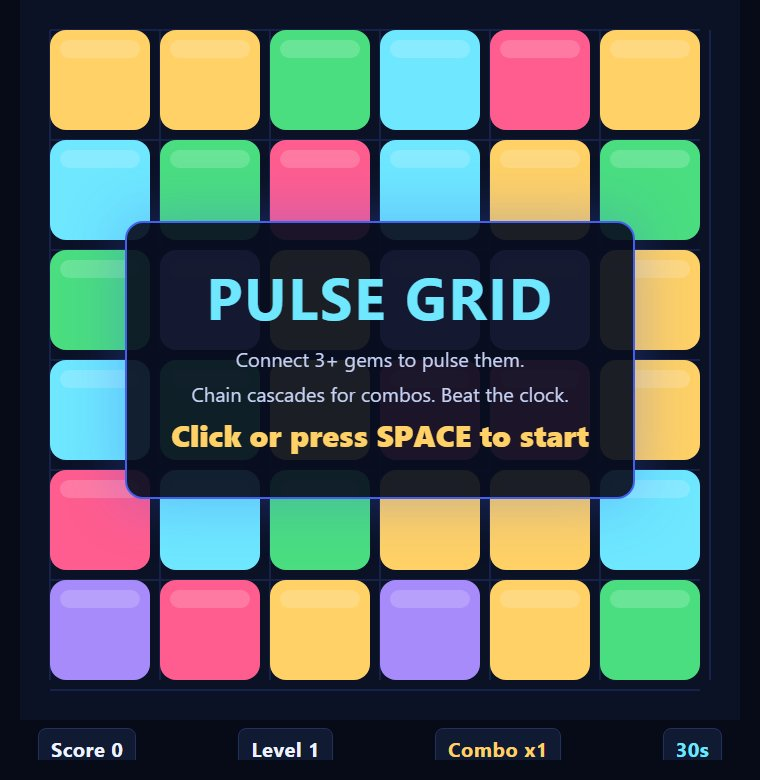
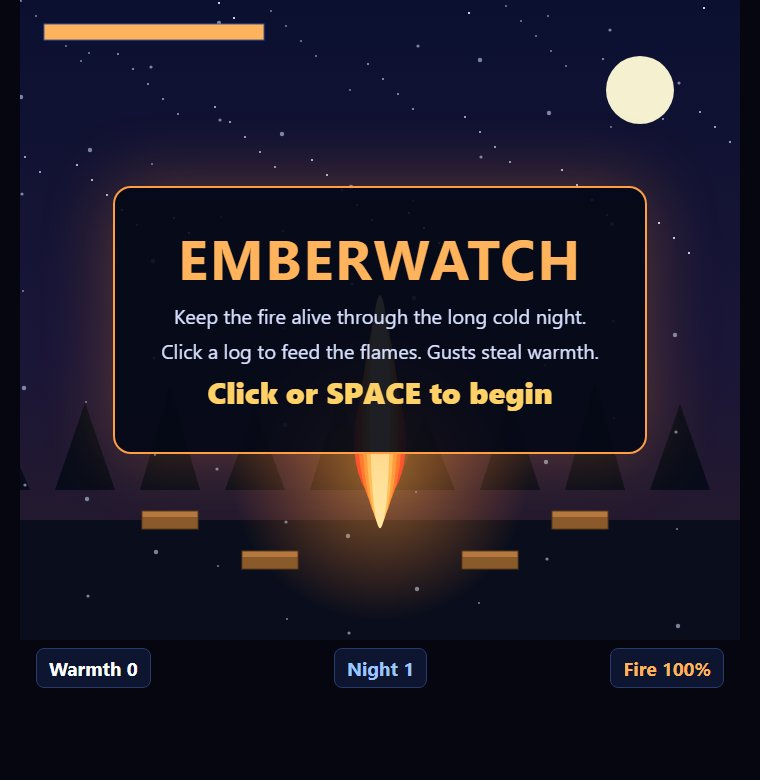
Emberwatch: original campfire night-watch arcade

diff --git a/game/src/main.js b/game/src/main.js
@@ -1,58 +1,27 @@
-// Pulse Grid entry point: input, loop, and screenshot staging.
-import { createState, pulse, tick, endGame } from './board.js';
-import { draw, SCREEN_TITLE, SCREEN_PLAY, SCREEN_OVER } from './render.js';
-import { cascadeSound, failSound } from './audio.js';
+// Emberwatch entry point: input, animation loop, particles, and screenshot staging.
+import { W,H } from './config.js';
+import { createState, feed, tick } from './world.js';
+import { draw } from './render.js';
 import { stageShot } from './shots.js';
-import { GRID, CELL, GAP, OFFSET } from './config.js';
-
-const canvas = document.getElementById('board');
-const ctx = canvas.getContext('2d');
-const overlay = document.getElementById('overlay');
-const hud = { score: document.getElementById('score'), level: document.getElementById('level'), combo: document.getElementById('combo'), time: document.getElementById('time') };
-
-let state = createState(1);
-let screen = SCREEN_TITLE;
-let last = performance.now();
-
-const params = new URLSearchParams(location.search);
-const shot = params.get('shot');
-if (shot) {
-  const staged = stageShot(shot);
-  state = staged.state; screen = staged.screen;
-  draw(ctx, state, screen);
-  updateHud();
-}
-
-function updateHud() {
-  hud.score.textContent = 'Score ' + state.score;
-  hud.level.textContent = 'Level ' + state.level;
-  hud.combo.textContent = 'Combo x' + state.combo;
-  hud.time.textContent = Math.max(0, Math.ceil(state.timeLeft)) + 's';
-  if (screen === SCREEN_TITLE) overlay.innerHTML = '<div class="card"><h1>PULSE GRID</h1><p>Connect 3+ gems to pulse them.</p><p>Chain cascades for combos. Beat the clock.</p><p class="big">Click or press SPACE to start</p></div>';
-  else if (screen === SCREEN_OVER) overlay.innerHTML = '<div class="card"><h1>TIME UP</h1><p class="big">Score ' + state.score + '</p><p>Level ' + state.level + '</p><p>Press R to restart</p></div>';
-  else overlay.innerHTML = '';
-}
-
-function start() { state = createState(Date.now() & 0xffffffff); screen = SCREEN_PLAY; updateHud(); }
-function restart() { start(); }
-
-canvas.addEventListener('click', (e) => {
-  if (screen !== SCREEN_PLAY) { start(); return; }
-  const rect = canvas.getBoundingClientRect();
-  const x = (e.clientX - rect.left) - OFFSET, y = (e.clientY - rect.top) - OFFSET;
-  const c = Math.floor(x / (CELL + GAP)), r = Math.floor(y / (CELL + GAP));
-  if (r >= 0 && r < GRID && c >= 0 && c < GRID) { const res = pulse(state, r, c); if (res.cleared) cascadeSound(state.combo); else failSound(); }
-});
-window.addEventListener('keydown', (e) => {
-  if (e.key === ' ' && screen !== SCREEN_PLAY) start();
-  if (e.key.toLowerCase() === 'r') restart();
-});
-
-function loop(now) {
-  const dt = Math.min(0.05, (now - last) / 1000); last = now;
-  if (screen === SCREEN_PLAY) { tick(state, dt); if (state.level > 1 && state.timeLeft > 29.4) { /* level up pulse */ cascadeSound(3); } }
-  draw(ctx, state, screen); updateHud();
-  requestAnimationFrame(loop);
-}
-if (!shot) requestAnimationFrame(loop);
-updateHud();
+const cv=document.getElementById('stage'),c=cv.getContext('2d');
+const ov=document.getElementById('overlay');
+const ui={score:document.getElementById('score'),night:document.getElementById('night'),heat:document.getElementById('heat')};
+let state=createState(1),screen='title',last=performance.now(),time=0;
+const snow=Array.from({length:60},(_,i)=>({x:(i*131)%W,y:(i*67)%H,r:1+(i%3)*.6,sp:20+(i%5)*8}));
+let embers=[];
+const q=new URLSearchParams(location.search),shot=q.get('shot');
+if(shot){const s=stageShot(shot);state=s.state;screen=s.screen;draw(c,state,snow,embers,0);hud();}
+function hud(){ui.score.textContent='Warmth '+state.warmth;ui.night.textContent='Night '+state.night;ui.heat.textContent='Fire '+Math.round(state.heat)+'%';
+ if(screen==='title')ov.innerHTML='<div class="card"><h1>EMBERWATCH</h1><p>Keep the fire alive through the long cold night.</p><p>Click a log to feed the flames. Gusts steal warmth.</p><p class="big">Click or SPACE to begin</p></div>';
+ else if(screen==='over')ov.innerHTML='<div class="card"><h1>THE FIRE WENT OUT</h1><p class="big">Warmth '+state.warmth+'</p><p>Night '+state.night+'</p><p>Press R to try again</p></div>';
+ else ov.innerHTML='';}
+function start(){state=createState(Date.now()&0xffffffff);screen='play';embers=[];hud();}
+cv.addEventListener('click',e=>{if(screen!=='play'){start();return;}const r=cv.getBoundingClientRect();const x=e.clientX-r.left,y=e.clientY-r.top;
+ for(let i=0;i<state.logs.length;i++){const l=state.logs[i];if(!l.used&&Math.abs(x-l.x)<34&&Math.abs(y-l.y)<16){feed(state,i);for(let k=0;k<12;k++)embers.push({x:360+(Math.random()-.5)*60,y:470,life:1,sp:1+Math.random()*2});break;}}});
+window.addEventListener('keydown',e=>{if(e.key===' '&&screen!=='play')start();if(e.key.toLowerCase()==='r')start();});
+function loop(now){const dt=Math.min(.05,(now-last)/1000);last=now;time+=dt;
+ if(screen==='play'){tick(state,dt);if(state.over){screen='over';hud();}}
+ for(const s of snow){s.y+=s.sp*dt;if(s.y>H){s.y=0;s.x=(s.x+77)%W;}}
+ embers=embers.filter(e=>{e.y-=e.sp*30*dt;e.life-=dt*.9;return e.life>0;});
+ draw(c,state,snow,embers,time);hud();requestAnimationFrame(loop);}
+if(!shot)requestAnimationFrame(loop);hud();

diff --git a/game/src/render.js b/game/src/render.js
@@ -1,32 +1,49 @@
-// Canvas renderer for Pulse Grid: board, HUD text overlay pieces, end screens.
-import { GRID, CELL, GAP, OFFSET, COLORS } from './config.js';
-
-export const SCREEN_TITLE = 'title', SCREEN_PLAY = 'play', SCREEN_OVER = 'over';
-
-export function draw(ctx2d, state, screen) {
-  ctx2d.clearRect(0, 0, 720, 720);
-  ctx2d.fillStyle = '#0b1226'; ctx2d.fillRect(0, 0, 720, 720);
-  // subtle grid glow
-  ctx2d.strokeStyle = '#16224a'; ctx2d.lineWidth = 2;
-  for (let i = 0; i <= GRID; i++) {
-    const p = OFFSET + i * (CELL + GAP);
-    ctx2d.beginPath(); ctx2d.moveTo(p, OFFSET); ctx2d.lineTo(p, OFFSET + GRID * (CELL + GAP) - GAP); ctx2d.stroke();
-    ctx2d.beginPath(); ctx2d.moveTo(OFFSET, p); ctx2d.lineTo(OFFSET + GRID * (CELL + GAP) - GAP, p); ctx2d.stroke();
+// Emberwatch renderer: night sky, stars, pines, snow, fire with embers, HUD visuals.
+import { W,H,FIRE_X,FIRE_Y } from './config.js';
+export function draw(c,state,snow,embers,time){
+  // night sky gradient
+  const g=c.createLinearGradient(0,0,0,H);
+  g.addColorStop(0,'#0b1030');g.addColorStop(.55,'#1a1638');g.addColorStop(1,'#2a1c28');
+  c.fillStyle=g;c.fillRect(0,0,W,H);
+  // stars
+  c.fillStyle='#dfe8ff';
+  for(let i=0;i<70;i++){const x=(i*97)%W,y=(i*53)%260;c.globalAlpha=.4+.6*((i%5)/5);c.fillRect(x,y,2,2);}
+  c.globalAlpha=1;
+  // moon
+  c.fillStyle='#f4f0d0';c.beginPath();c.arc(620,90,34,0,7);c.fill();
+  // pine silhouettes
+  c.fillStyle='#080c1a';
+  for(let i=0;i<9;i++){const x=i*85-20;pine(c,x,H-150,70+((i*17)%40));}
+  // ground
+  c.fillStyle='#0a0e1c';c.fillRect(0,H-120,W,120);
+  // snow
+  c.fillStyle='rgba(210,230,255,.55)';
+  for(const s of snow){c.beginPath();c.arc(s.x,s.y,s.r,0,7);c.fill();}
+  // fire glow
+  const intensity=Math.max(.2,state.heat/100);
+  const glow=c.createRadialGradient(FIRE_X,FIRE_Y,0,FIRE_X,FIRE_Y,150*intensity);
+  glow.addColorStop(0,'rgba(255,170,60,.55)');glow.addColorStop(1,'rgba(255,120,40,0)');
+  c.fillStyle=glow;c.fillRect(FIRE_X-170,FIRE_Y-170,340,340);
+  // flames (layered)
+  for(let i=0;i<5;i++){
+    const h=(60+i*16)*intensity*(1+.08*Math.sin(time*6+i));
+    c.fillStyle=['#ff4d2e','#ff7a2f','#ff9e42','#ffc25c','#ffe6a0'][i];
+    c.beginPath();c.ellipse(FIRE_X,FIRE_Y-h/2,26-i*4,h,0,0,7);c.fill();
   }
-  for (let r = 0; r < GRID; r++) for (let c = 0; c < GRID; c++) {
-    const v = state.cells[r * GRID + c]; if (v < 0) continue;
-    const x = OFFSET + c * (CELL + GAP), y = OFFSET + r * (CELL + GAP);
-    ctx2d.fillStyle = COLORS[v % COLORS.length];
-    roundRect(ctx2d, x, y, CELL, CELL, 16); ctx2d.fill();
-    ctx2d.fillStyle = 'rgba(255,255,255,.18)';
-    roundRect(ctx2d, x + 10, y + 10, CELL - 20, 18, 9); ctx2d.fill();
+  // logs / embers
+  for(const e of embers){c.fillStyle='#ffb35c';c.globalAlpha=Math.max(0,e.life);c.fillRect(e.x,e.y,3,3);}
+  c.globalAlpha=1;
+  // clickable logs
+  for(let i=0;i<state.logs.length;i++){const l=state.logs[i];if(l.used)continue;
+    c.fillStyle='#8b5a2b';c.fillRect(l.x-28,l.y-9,56,18);
+    c.fillStyle='#b5793f';c.fillRect(l.x-28,l.y-9,56,6);
+    c.strokeStyle='#5c3a1a';c.strokeRect(l.x-28,l.y-9,56,18);
   }
-  if (state.flash > 0) { ctx2d.fillStyle = `rgba(255,255,255,${state.flash * 0.18})`; ctx2d.fillRect(0, 0, 720, 720); }
-  // Title and game-over text are drawn by the HTML overlay (single, legible card),
-  // so the canvas only renders the board itself.
+  // heat bar
+  c.fillStyle='#1a2244';c.fillRect(24,24,220,16);
+  c.fillStyle=state.heat>35?'#ffb35c':'#ff5d5d';c.fillRect(24,24,220*state.heat/100,16);
+  c.strokeStyle='#445899';c.strokeRect(24,24,220,16);
+  if(state.gust>0){c.fillStyle='rgba(180,215,255,.18)';c.fillRect(0,0,W,H);}
+  if(state.flash>0){c.fillStyle=`rgba(255,220,120,${state.flash*.25})`;c.fillRect(0,0,W,H);}
 }
-function roundRect(c, x, y, w, h, r) { c.beginPath(); c.moveTo(x+r,y); c.arcTo(x+w,y,x+w,y+h,r); c.arcTo(x+w,y+h,x,y+h,r); c.arcTo(x,y+h,x,y,r); c.arcTo(x,y,x+w,y,r); c.closePath(); }
-function banner(c, title, sub) {
-  c.fillStyle = '#6ee7ff'; c.font = 'bold 64px Segoe UI, Arial'; c.textAlign = 'center'; c.fillText(title, 360, 320);
-  c.fillStyle = '#ffd166'; c.font = '24px Segoe UI, Arial'; c.fillText(sub, 360, 370);
-}
+function pine(c,x,base,h){c.beginPath();c.moveTo(x,base-h);c.lineTo(x-30,base);c.lineTo(x+30,base);c.closePath();c.fill();}

diff --git a/game/src/shots.js b/game/src/shots.js
@@ -1,50 +1,14 @@
-// Deterministic screenshot scenes: stage a real game state for start/play/end.
-// The autopilot searches the board for a same-colour connected group of size >=3
-// and pulses it, so the play and end frames show real cascades, score and combos.
-import { createState, pulse, tick, endGame } from './board.js';
-import { GRID } from './config.js';
-import { SCREEN_TITLE, SCREEN_PLAY, SCREEN_OVER } from './render.js';
-
-function findGroup(state) {
-  const best = new Set();
-  let bestCells = [];
-  for (let i = 0; i < GRID * GRID; i++) {
-    if (state.cells[i] < 0) continue;
-    const colour = state.cells[i];
-    const seen = new Set(), stack = [i];
-    while (stack.length) {
-      const cur = stack.pop();
-      if (seen.has(cur) || state.cells[cur] !== colour) continue;
-      seen.add(cur);
-      const r = Math.floor(cur / GRID), c = cur % GRID;
-      if (r > 0) stack.push(cur - GRID);
-      if (r < GRID - 1) stack.push(cur + GRID);
-      if (c > 0) stack.push(cur - 1);
-      if (c < GRID - 1) stack.push(cur + 1);
-    }
-    if (seen.size > bestCells.length) bestCells = [...seen];
+// Deterministic screenshot scenes: start / play / end from a real game state.
+import { createState, feed, tick } from './world.js';
+export function stageShot(name){
+  const st=createState(1);
+  if(name==='start')return {state:st,screen:'title'};
+  if(name==='end'){
+    for(let i=0;i<9;i++){feed(st,i%4);for(let k=0;k<20;k++)tick(st,0.05);}
+    st.heat=0;st.over=true;
+    return {state:st,screen:'over'};
   }
-  return bestCells.length >= 3 ? bestCells[0] : null;
-}
-
-function playScript(state, moves) {
-  for (let i = 0; i < moves; i++) {
-    const idx = findGroup(state);
-    if (idx === null) break;
-    pulse(state, Math.floor(idx / GRID), idx % GRID);
-  }
-}
-
-export function stageShot(name) {
-  const state = createState(1);
-  if (name === 'start') return { state, screen: SCREEN_TITLE };
-  if (name === 'end') {
-    playScript(state, 14);
-    tick(state, 31);
-    endGame(state);
-    return { state, screen: SCREEN_OVER };
-  }
-  playScript(state, 6);
-  tick(state, 6);
-  return { state, screen: SCREEN_PLAY };
+  feed(st,0);feed(st,1);for(let k=0;k<40;k++)tick(st,0.05);
+  st.warmth=120;st.night=2;
+  return {state:st,screen:'play'};
 }

diff --git a/game/style.css b/game/style.css
@@ -1,14 +1,11 @@
-* { box-sizing: border-box; }
-html, body { margin: 0; padding: 0; background: #070b18; color: #eef3ff; font-family: "Segoe UI", Arial, sans-serif; }
-#app { position: relative; width: 720px; height: 760px; margin: 0 auto; overflow: hidden; }
-#board { display: block; width: 720px; height: 720px; background: #0b1226; }
-#hud { display: flex; justify-content: space-between; padding: 8px 18px; font-size: 20px; font-weight: 700; letter-spacing: .5px; }
-#hud span { background: #111a33; padding: 6px 12px; border-radius: 8px; border: 1px solid #22305c; }
-#combo { color: #ffd166; }
-#time { color: #6ee7ff; }
-#overlay { position: absolute; left: 0; top: 0; width: 720px; height: 720px; display: flex; align-items: center; justify-content: center; text-align: center; pointer-events: none; }
-.card { background: rgba(9,14,32,.92); border: 2px solid #4361ee; border-radius: 18px; padding: 34px 44px; box-shadow: 0 0 60px rgba(67,97,238,.35); }
-.card h1 { margin: 0 0 10px; font-size: 58px; letter-spacing: 2px; color: #6ee7ff; }
-.card p { margin: 8px 0; font-size: 20px; color: #c7d3f5; }
-.card .big { font-size: 30px; color: #ffd166; font-weight: 800; }
-.hidden { display: none; }
+*{box-sizing:border-box}html,body{margin:0;background:#05060f;color:#fff;font-family:"Segoe UI",Arial,sans-serif}
+#app{position:relative;width:720px;height:690px;margin:0 auto;overflow:hidden}
+#stage{display:block;width:720px;height:640px}
+#hud{display:flex;justify-content:space-between;padding:8px 16px;font-size:19px;font-weight:700}
+#hud span{background:#0d1530;padding:6px 12px;border-radius:8px;border:1px solid #2a3a6a}
+#heat{color:#ffb35c}#night{color:#9ec5ff}
+#overlay{position:absolute;left:0;top:0;width:720px;height:640px;display:flex;align-items:center;justify-content:center;text-align:center;pointer-events:none}
+.card{background:rgba(6,9,22,.9);border:2px solid #ff9e42;border-radius:18px;padding:32px 46px;box-shadow:0 0 70px rgba(255,140,50,.3)}
+.card h1{margin:0 0 8px;font-size:56px;color:#ffb35c;letter-spacing:2px}
+.card p{margin:8px 0;font-size:20px;color:#d8e2ff}
+.card .big{font-size:30px;color:#ffd166;font-weight:800}

diff --git a/game/src/world.js b/game/src/world.js
@@ -1,0 +1,27 @@
+// Emberwatch game state and rules: heat drains, logs restore it, gusts hurt.
+import { HEAT_MAX, BASE_DRAIN, LOG_SECONDS, LOG_VALUE, GUST_CHANCE } from './config.js';
+export function makeRng(seed){let s=seed>>>0;return()=>{s=(s*1664525+1013904223)>>>0;return s/4294967296;};}
+export function createState(seed){
+  const rng=makeRng(seed);
+  return {heat:HEAT_MAX,warmth:0,night:1,elapsed:0,rng,over:false,flash:0,gust:0,logs:[{x:150,y:520},{x:560,y:520},{x:250,y:560},{x:470,y:560}]};
+}
+export function feed(state,idx){
+  if(state.over)return false;
+  const log=state.logs[idx];
+  if(!log||log.used)return false;
+  log.used=true;
+  state.heat=Math.min(HEAT_MAX,state.heat+LOG_VALUE);
+  state.warmth+=10*state.night;
+  state.flash=1;
+  return true;
+}
+export function tick(state,dt){
+  if(state.over)return;
+  state.elapsed+=dt;state.flash=Math.max(0,state.flash-dt*2.5);state.gust=Math.max(0,state.gust-dt);
+  let drain=BASE_DRAIN+state.night*1.4;
+  if(state.rng()<GUST_CHANCE*dt){state.gust=1.2;state.heat-=8;}
+  state.heat-=drain*dt;
+  if(state.heat<=0){state.heat=0;state.over=true;}
+  if(state.elapsed>=LOG_SECONDS){state.elapsed=0;state.night+=1;state.logs.forEach(l=>l.used=false);}
+}
+export function resetLogs(state){state.logs.forEach(l=>l.used=false);}

diff --git a/game/index.html b/game/index.html
@@ -1,22 +1,7 @@
 <!DOCTYPE html>
-<html lang="en">
-<head>
-<meta charset="utf-8">
-<meta name="viewport" content="width=device-width,initial-scale=1">
-<title>Pulse Grid</title>
-<link rel="stylesheet" href="./style.css">
-</head>
-<body>
-<div id="app">
-  <canvas id="board" width="720" height="720"></canvas>
-  <div id="hud">
-    <span id="score">Score 0</span>
-    <span id="level">Level 1</span>
-    <span id="combo">Combo x1</span>
-    <span id="time">30s</span>
-  </div>
-  <div id="overlay"></div>
-</div>
-<script type="module" src="./src/main.js"></script>
-</body>
-</html>
+<html lang="en"><head><meta charset="utf-8"><meta name="viewport" content="width=device-width,initial-scale=1">
+<title>Emberwatch</title><link rel="stylesheet" href="./style.css"></head><body>
+<div id="app"><canvas id="stage" width="720" height="640"></canvas>
+<div id="hud"><span id="score">Warmth 0</span><span id="night">Night 1</span><span id="heat">Fire 100%</span></div>
+<div id="overlay"></div></div>
+<script type="module" src="./src/main.js"></script></body></html>

diff --git a/game/src/config.js b/game/src/config.js
@@ -1,8 +1,8 @@
-// Tunable constants for Pulse Grid. One job: central configuration.
-export const GRID = 6;
-export const CELL = 100;
-export const GAP = 10;
-export const OFFSET = 30;
-export const COLORS = ["#ff5d8f", "#ffd166", "#4ade80", "#6ee7ff", "#a78bfa"];
-export const LEVEL_SECONDS = 30;
-export const AUTOSHOT_SEED = 1;
+// Emberwatch tuning constants. One job: central configuration.
+export const W=720,H=640;
+export const FIRE_X=360,FIRE_Y=470;
+export const HEAT_MAX=100;
+export const BASE_DRAIN=6.5;
+export const LOG_SECONDS=22;
+export const LOG_VALUE=18;
+export const GUST_CHANCE=0.35;

diff --git a/main.ts b/main.ts
@@ -1,3 +1,6 @@
+// Emberwatch is an original night-watch arcade game: keep a campfire alive against
+// the cold. Every click on a log restores warmth; gusts and the long night drain it.
+// This hand-in program copies the static game and its screenshots into /output.
 // Copies the game's static files and screenshots into the build output so the judge can review them.
 // This project is inspired by classic casual game psychology, where the experience is designed
 // around short, repeatable cycles that keep attention without demanding long planning sessions.
